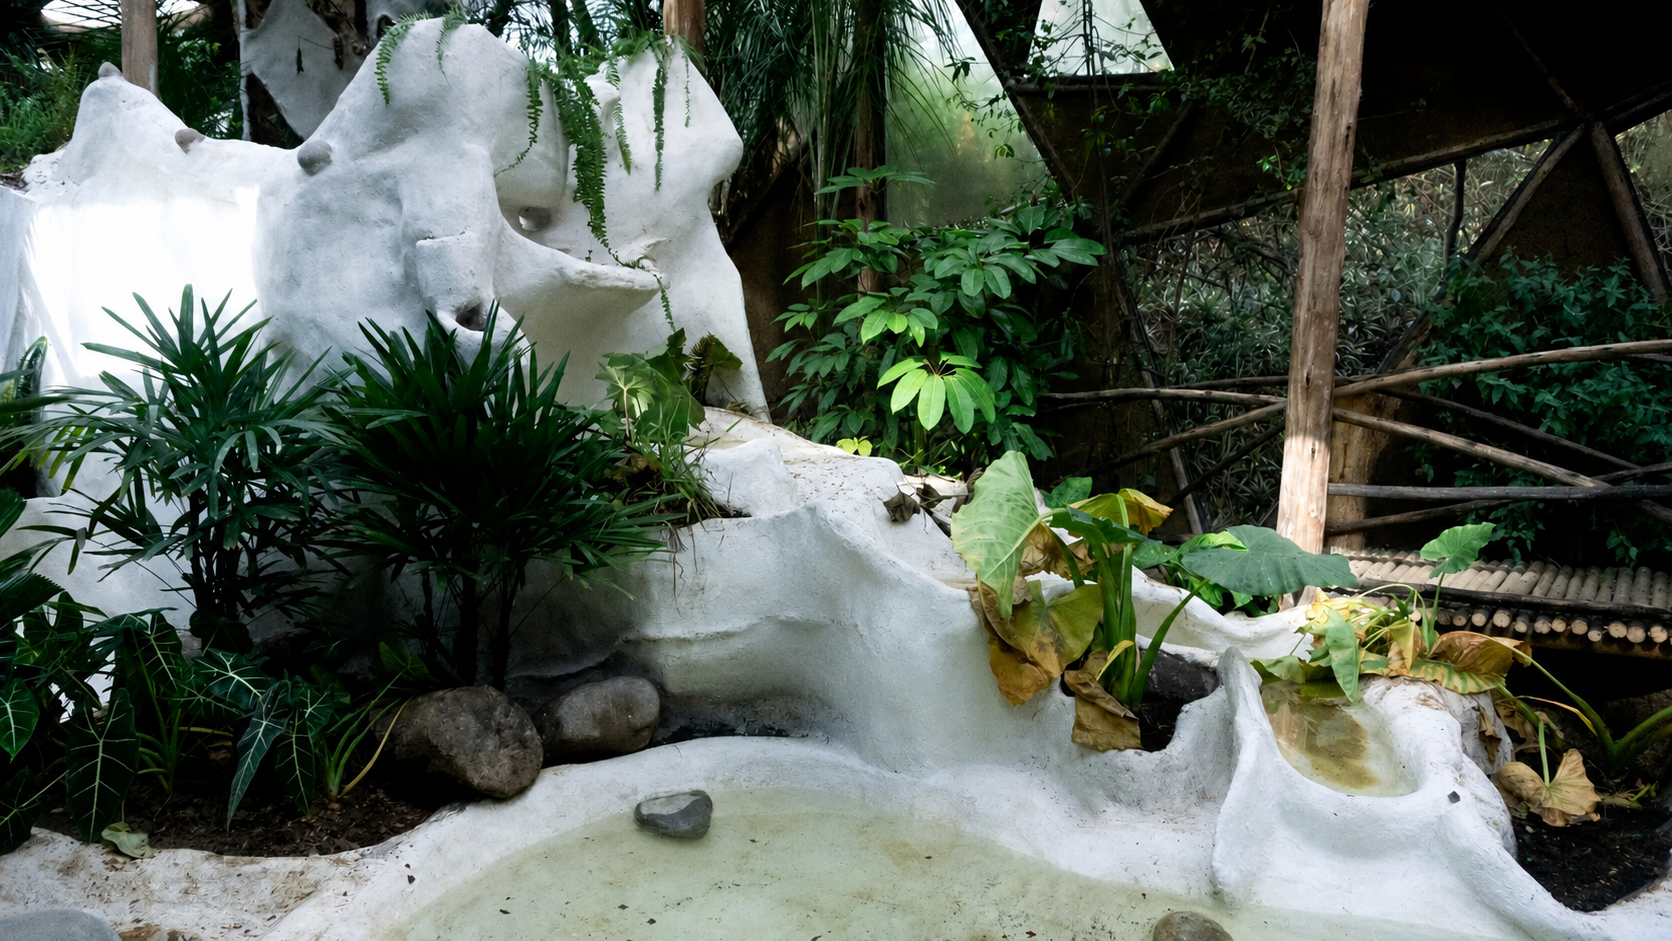
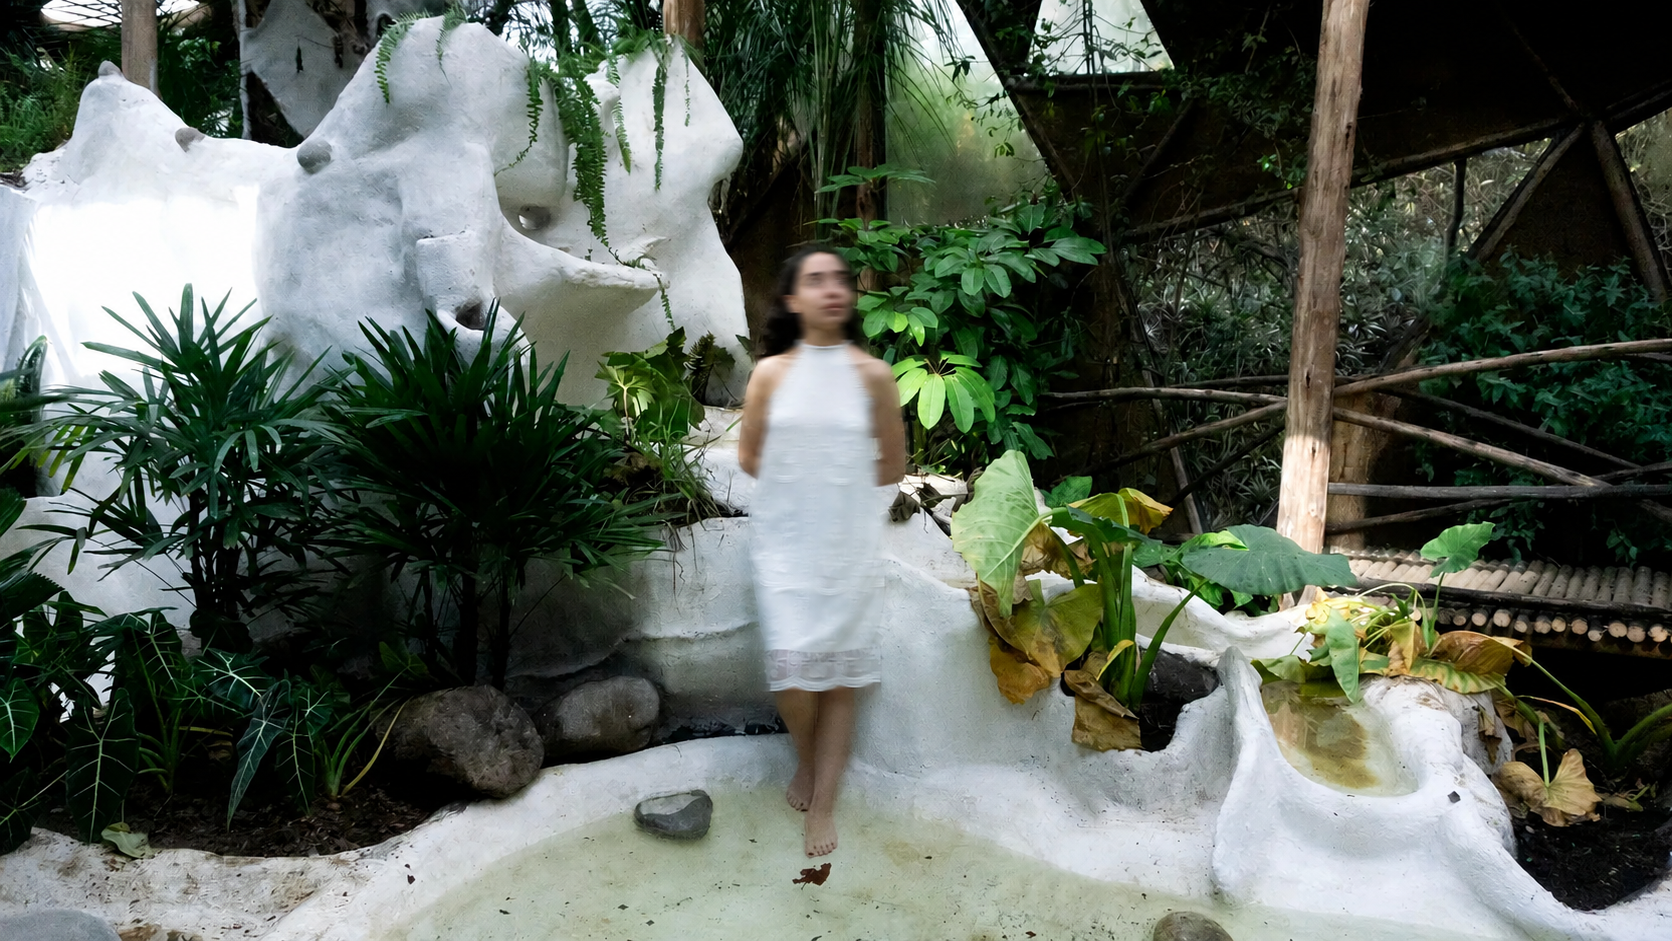
Mensaje descriptivo de los cambios

diff --git a/testudines.html b/testudines.html
@@ -48,9 +48,9 @@
   .proj-desc-inner{display:grid;grid-template-columns:1fr 1fr;gap:8rem;align-items:start;}
   .proj-desc p{font-size:.95rem;line-height:1.9;color:var(--stone);margin-bottom:1.5rem;}
   .proj-specs-grid{display:grid;grid-template-columns:1fr 1fr;gap:1rem;}
-  .spec{padding:1.2rem;border:1px solid rgba(200,169,110,0.12);background:rgba(200,169,110,0.03);}
-  .spec-num{font-family:'Cormorant Garamond',serif;font-size:2rem;font-weight:300;color:var(--gold);line-height:1;margin-bottom:.3rem;}
-  .spec-label{font-size:.65rem;letter-spacing:.15em;text-transform:uppercase;color:var(--stone);}
+  .spec{padding: 2rem 1.5rem;border:1px solid rgba(200,169,110,0.12);background:rgba(200,169,110,0.03);display:flex;flex-direction:column;justify-content:space-between;}
+  .spec-num{font-family:'Cormorant Garamond',serif;font-size:clamp(4rem,8vw,7rem);font-weight:300;color:var(--gold);line-height:1;margin-bottom:1rem;display:block;}
+  .spec-label{font-size:.6rem;letter-spacing:.12em;text-transform:uppercase;color:var(--stone);line-height:1.5;}
   .proj-gallery{background:var(--soil);}
   .gallery-placeholder{width:100%;height:100%;display:flex;align-items:center;justify-content:center;}
   .gp-1{background:linear-gradient(135deg,#1a2012,#2d3a20);}
@@ -137,10 +137,10 @@
     <div class="reveal reveal-delay-1">
       <p class="section-label"><span data-es>◆ Ficha Técnica</span><span data-en>◆ Technical Sheet</span></p>
       <div class="proj-specs-grid">
-        <div class="spec"><p class="spec-num">250</p><p class="spec-label">m²</p></div>
-        <div class="spec"><p class="spec-num">50%</p><p class="spec-label" data-es>Materiales locales</p><p class="spec-label" data-en>Local materials</p></div>
-        <div class="spec"><p class="spec-num">12+</p><p class="spec-label" data-es>Especies integradas</p><p class="spec-label" data-en>Integrated species</p></div>
-        <div class="spec"><p class="spec-num">30%</p><p class="spec-label" data-es>Reutilización de obra preexistente</p><p class="spec-label" data-en>Reuse of preexisting structure</p></div>
+        <div class="spec"><p class="spec-num" style="font-size:clamp(4rem,8vw,7rem);font-family:'Cormorant Garamond',serif;font-weight:300;color:#C8A96E;line-height:1;margin-bottom:1rem;display:block;">250</p><p class="spec-label">m²</p></div>
+        <div class="spec"><p class="spec-num" style="font-size:clamp(4rem,8vw,7rem);font-family:'Cormorant Garamond',serif;font-weight:300;color:#C8A96E;line-height:1;margin-bottom:1rem;display:block;">50%</p><p class="spec-label" data-es>Materiales locales</p><p class="spec-label" data-en>Local materials</p></div>
+        <div class="spec"><p class="spec-num" style="font-size:clamp(4rem,8vw,7rem);font-family:'Cormorant Garamond',serif;font-weight:300;color:#C8A96E;line-height:1;margin-bottom:1rem;display:block;">12+</p><p class="spec-label" data-es>Especies integradas</p><p class="spec-label" data-en>Integrated species</p></div>
+        <div class="spec"><p class="spec-num" style="font-size:clamp(4rem,8vw,7rem);font-family:'Cormorant Garamond',serif;font-weight:300;color:#C8A96E;line-height:1;margin-bottom:1rem;display:block;">30%</p><p class="spec-label" data-es>Reutilización de obra preexistente</p><p class="spec-label" data-en>Reuse of preexisting structure</p></div>
       </div>
     </div>
   </div>
@@ -380,9 +380,9 @@
   <p class="section-label reveal"><span data-es>◆ Materiales</span><span data-en>◆ Materials</span></p>
   <div class="tech-grid reveal">
     <div class="tech-item"><div class="tech-icon">◈</div><p class="tech-name" data-es>Tierra compactada</p><p class="tech-name" data-en>Compacted earth</p><p class="tech-detail" data-es>Del propio sitio, sin transporte</p><p class="tech-detail" data-en>From the site itself, no transport</p></div>
-    <div class="tech-item"><div class="tech-icon">◈</div><p class="tech-name" data-es>Madera local</p><p class="tech-name" data-en>Local timber</p><p class="tech-detail" data-es>Eucalipto y aliso de la región</p><p class="tech-detail" data-en>Regional eucalyptus and alder</p></div>
-    <div class="tech-item"><div class="tech-icon">◈</div><p class="tech-name" data-es>Fibras naturales</p><p class="tech-name" data-en>Natural fibers</p><p class="tech-detail" data-es>Paja de páramo para cubierta</p><p class="tech-detail" data-en>Páramo straw for roofing</p></div>
-    <div class="tech-item"><div class="tech-icon">◈</div><p class="tech-name" data-es>Plantas nativas</p><p class="tech-name" data-en>Native plants</p><p class="tech-detail" data-es>12 especies del ecosistema local</p><p class="tech-detail" data-en>12 species from the local ecosystem</p></div>
+    <div class="tech-item"><div class="tech-icon">◈</div><p class="tech-name" data-es>Madera local</p><p class="tech-name" data-en>Local timber</p><p class="tech-detail" data-es>Eucalipto cultivado en el sitio utilizado para la construcción de la estructura</p><p class="tech-detail" data-en>Eucalyptus grown on site used for the structural construction</p></div>
+    <div class="tech-item"><div class="tech-icon">◈</div><p class="tech-name" data-es>Plantas nativas</p><p class="tech-name" data-en>Native plants</p><p class="tech-detail" data-es>Pared de bromelias integrada al hábitat</p><p class="tech-detail" data-en>Bromeliad wall integrated into the habitat</p></div>
+    <div class="tech-item"><div class="tech-icon">◈</div><p class="tech-name" data-es>Materiales reciclados</p><p class="tech-name" data-en>Recycled materials</p><p class="tech-detail" data-es>Cascada construida con llantas naturales recicladas</p><p class="tech-detail" data-en>Waterfall built with recycled natural tires</p></div>
   </div>
 </section>
 

diff --git a/Symbiosis.html b/Symbiosis.html
@@ -48,9 +48,9 @@
   .proj-desc-inner{display:grid;grid-template-columns:1fr 1fr;gap:8rem;align-items:start;}
   .proj-desc p{font-size:.95rem;line-height:1.9;color:var(--stone);margin-bottom:1.5rem;}
   .proj-specs-grid{display:grid;grid-template-columns:1fr 1fr;gap:1rem;}
-  .spec{padding:1.2rem;border:1px solid rgba(200,169,110,0.12);background:rgba(200,169,110,0.03);}
-  .spec-num{font-family:'Cormorant Garamond',serif;font-size:2rem;font-weight:300;color:var(--gold);line-height:1;margin-bottom:.3rem;}
-  .spec-label{font-size:.65rem;letter-spacing:.15em;text-transform:uppercase;color:var(--stone);}
+  .spec{padding: 2rem 1.5rem;border:1px solid rgba(200,169,110,0.12);background:rgba(200,169,110,0.03);display:flex;flex-direction:column;justify-content:space-between;}
+  .spec-num{font-family:'Cormorant Garamond',serif;font-size:clamp(4rem,8vw,7rem);font-weight:300;color:var(--gold);line-height:1;margin-bottom:1rem;display:block;}
+  .spec-label{font-size:.6rem;letter-spacing:.12em;text-transform:uppercase;color:var(--stone);line-height:1.5;}
   .proj-gallery{background:var(--soil);}
   .gallery-placeholder{width:100%;height:100%;display:flex;align-items:center;justify-content:center;}
   .gp-1{background:linear-gradient(135deg,#1a2012,#2d3a20);}
@@ -137,10 +137,10 @@
     <div class="reveal reveal-delay-1">
       <p class="section-label"><span data-es>◆ Ficha Técnica</span><span data-en>◆ Technical Sheet</span></p>
       <div class="proj-specs-grid">
-        <div class="spec"><p class="spec-num">53</p><p class="spec-label">m²</p></div>
-        <div class="spec"><p class="spec-num">45%</p><p class="spec-label" data-es>Materiales locales</p><p class="spec-label" data-en>Local materials</p></div>
-        <div class="spec"><p class="spec-num">8+</p><p class="spec-label" data-es>Especies integradas</p><p class="spec-label" data-en>Integrated species</p></div>
-        <div class="spec"><p class="spec-num">35%</p><p class="spec-label" data-es>Materiales reciclados</p><p class="spec-label" data-en>Recycled materials</p></div>
+        <div class="spec"><p class="spec-num" style="font-size:clamp(4rem,8vw,7rem);font-family:'Cormorant Garamond',serif;font-weight:300;color:#C8A96E;line-height:1;margin-bottom:1rem;display:block;">53</p><p class="spec-label">m²</p></div>
+        <div class="spec"><p class="spec-num" style="font-size:clamp(4rem,8vw,7rem);font-family:'Cormorant Garamond',serif;font-weight:300;color:#C8A96E;line-height:1;margin-bottom:1rem;display:block;">45%</p><p class="spec-label" data-es>Materiales locales</p><p class="spec-label" data-en>Local materials</p></div>
+        <div class="spec"><p class="spec-num" style="font-size:clamp(4rem,8vw,7rem);font-family:'Cormorant Garamond',serif;font-weight:300;color:#C8A96E;line-height:1;margin-bottom:1rem;display:block;">8+</p><p class="spec-label" data-es>Especies integradas</p><p class="spec-label" data-en>Integrated species</p></div>
+        <div class="spec"><p class="spec-num" style="font-size:clamp(4rem,8vw,7rem);font-family:'Cormorant Garamond',serif;font-weight:300;color:#C8A96E;line-height:1;margin-bottom:1rem;display:block;">35%</p><p class="spec-label" data-es>Materiales reciclados</p><p class="spec-label" data-en>Recycled materials</p></div>
       </div>
     </div>
   </div>
@@ -358,9 +358,9 @@
   <p class="section-label reveal"><span data-es>◆ Materiales</span><span data-en>◆ Materials</span></p>
   <div class="tech-grid reveal">
     <div class="tech-item"><div class="tech-icon">◈</div><p class="tech-name" data-es>Tierra compactada</p><p class="tech-name" data-en>Compacted earth</p><p class="tech-detail" data-es>Extraída del sitio de construcción</p><p class="tech-detail" data-en>Extracted from the construction site</p></div>
-    <div class="tech-item"><div class="tech-icon">◈</div><p class="tech-name" data-es>Madera local</p><p class="tech-name" data-en>Local timber</p><p class="tech-detail" data-es>Eucalipto rollizo de la región andina</p><p class="tech-detail" data-en>Round eucalyptus from the Andean region</p></div>
+    <div class="tech-item"><div class="tech-icon">◈</div><p class="tech-name" data-es>Madera local</p><p class="tech-name" data-en>Local timber</p><p class="tech-detail" data-es>Eucalipto cultivado en el sitio utilizado para la construcción de la estructura</p><p class="tech-detail" data-en>Eucalyptus grown on site used for the structural construction</p></div>
     <div class="tech-item"><div class="tech-icon">◈</div><p class="tech-name" data-es>Botellas recicladas</p><p class="tech-name" data-en>Recycled bottles</p><p class="tech-detail" data-es>Integradas como módulos constructivos en muros y cubierta</p><p class="tech-detail" data-en>Integrated as construction modules in walls and roof</p></div>
-    <div class="tech-item"><div class="tech-icon">◈</div><p class="tech-name" data-es>Plantas nativas</p><p class="tech-name" data-en>Native plants</p><p class="tech-detail" data-es>8 especies nativas integradas al diseño</p><p class="tech-detail" data-en>8 native species integrated into the design</p></div>
+    <div class="tech-item"><div class="tech-icon">◈</div><p class="tech-name" data-es>Plantas nativas</p><p class="tech-name" data-en>Native plants</p><p class="tech-detail" data-es>Pared de bromelias y cascada construida con llantas naturales</p><p class="tech-detail" data-en>Bromeliad wall and waterfall built with natural tires</p></div>
   </div>
 </section>
 

diff --git a/wings-roots.html b/wings-roots.html
@@ -48,9 +48,9 @@
   .proj-desc-inner{display:grid;grid-template-columns:1fr 1fr;gap:8rem;align-items:start;}
   .proj-desc p{font-size:.95rem;line-height:1.9;color:var(--stone);margin-bottom:1.5rem;}
   .proj-specs-grid{display:grid;grid-template-columns:1fr 1fr;gap:1rem;}
-  .spec{padding:1.2rem;border:1px solid rgba(200,169,110,0.12);background:rgba(200,169,110,0.03);}
-  .spec-num{font-family:'Cormorant Garamond',serif;font-size:2rem;font-weight:300;color:var(--gold);line-height:1;margin-bottom:.3rem;}
-  .spec-label{font-size:.65rem;letter-spacing:.15em;text-transform:uppercase;color:var(--stone);}
+  .spec{padding: 2rem 1.5rem;border:1px solid rgba(200,169,110,0.12);background:rgba(200,169,110,0.03);display:flex;flex-direction:column;justify-content:space-between;}
+  .spec-num{font-family:'Cormorant Garamond',serif;font-size:clamp(4rem,8vw,7rem);font-weight:300;color:var(--gold);line-height:1;margin-bottom:1rem;display:block;}
+  .spec-label{font-size:.6rem;letter-spacing:.12em;text-transform:uppercase;color:var(--stone);line-height:1.5;}
   .proj-gallery{background:var(--soil);}
   .proj-process{background:var(--bark);}
   .process-grid{display:grid;grid-template-columns:repeat(3,1fr);gap:2rem;}
@@ -152,10 +152,10 @@
     <div class="reveal reveal-delay-1">
       <p class="section-label"><span data-es>◆ Ficha Técnica</span><span data-en>◆ Technical Sheet</span></p>
       <div class="proj-specs-grid">
-        <div class="spec"><p class="spec-num">250</p><p class="spec-label">m²</p></div>
-        <div class="spec"><p class="spec-num">30+</p><p class="spec-label" data-es>Especies vegetales nativas integradas</p><p class="spec-label" data-en>Native plant species integrated</p></div>
-        <div class="spec"><p class="spec-num">30+</p><p class="spec-label" data-es>Especies animales nativas integradas</p><p class="spec-label" data-en>Native animal species integrated</p></div>
-        <div class="spec"><p class="spec-num">30%</p><p class="spec-label" data-es>Ahorro por optimización de estructura</p><p class="spec-label" data-en>Savings from structural optimization</p></div>
+        <div class="spec"><p class="spec-num" style="font-size:clamp(4rem,8vw,7rem);font-family:'Cormorant Garamond',serif;font-weight:300;color:#C8A96E;line-height:1;margin-bottom:1rem;display:block;">250</p><p class="spec-label">m²</p></div>
+        <div class="spec"><p class="spec-num" style="font-size:clamp(4rem,8vw,7rem);font-family:'Cormorant Garamond',serif;font-weight:300;color:#C8A96E;line-height:1;margin-bottom:1rem;display:block;">30+</p><p class="spec-label" data-es>Especies vegetales nativas integradas</p><p class="spec-label" data-en>Native plant species integrated</p></div>
+        <div class="spec"><p class="spec-num" style="font-size:clamp(4rem,8vw,7rem);font-family:'Cormorant Garamond',serif;font-weight:300;color:#C8A96E;line-height:1;margin-bottom:1rem;display:block;">30+</p><p class="spec-label" data-es>Especies animales nativas integradas</p><p class="spec-label" data-en>Native animal species integrated</p></div>
+        <div class="spec"><p class="spec-num" style="font-size:clamp(4rem,8vw,7rem);font-family:'Cormorant Garamond',serif;font-weight:300;color:#C8A96E;line-height:1;margin-bottom:1rem;display:block;">30%</p><p class="spec-label" data-es>Ahorro por optimización de estructura</p><p class="spec-label" data-en>Savings from structural optimization</p></div>
       </div>
     </div>
   </div>
